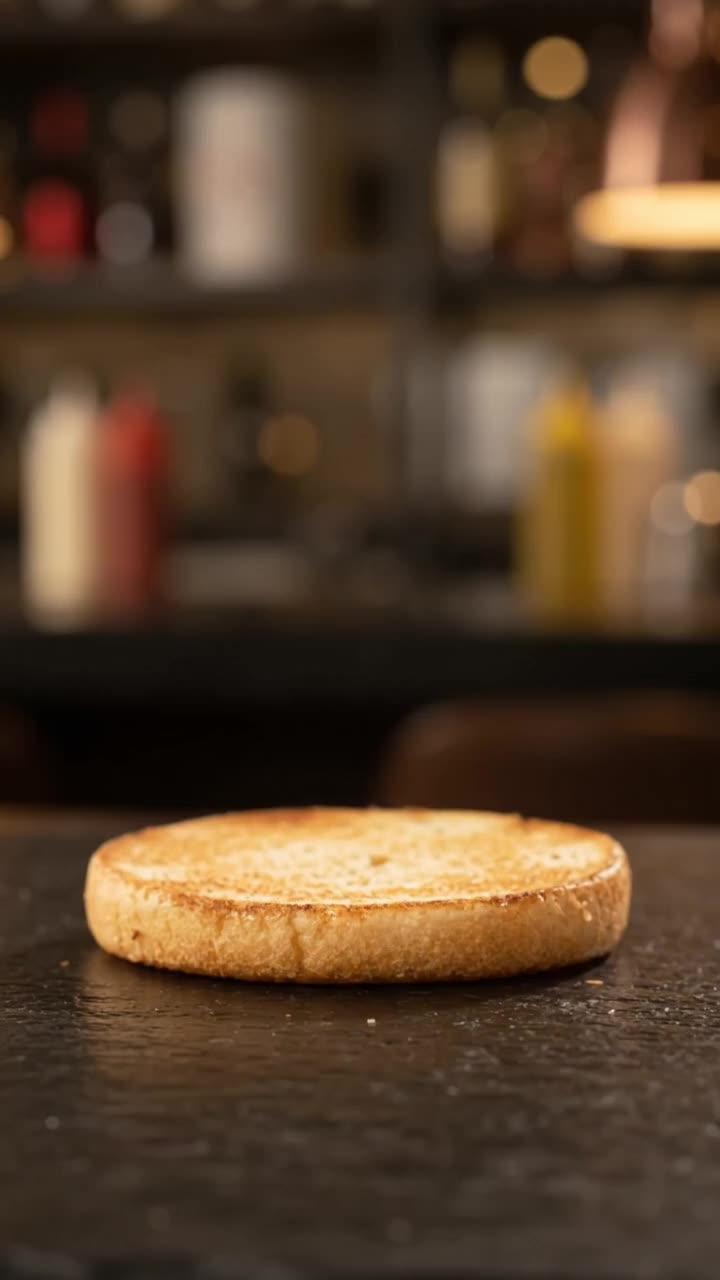
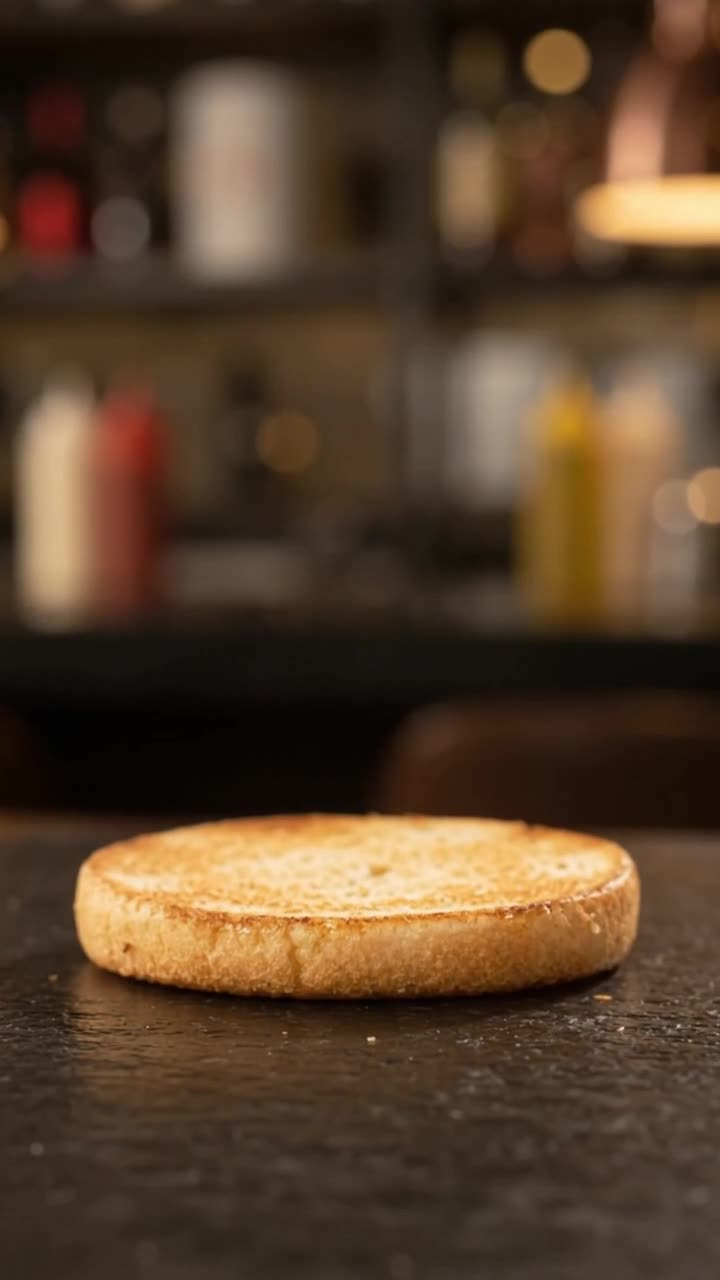
Vídeo do topo: rolagem cobre só o trecho com movimento (0,8s a 6,2s)
O fim do vídeo (lanche pronto, câmera parada) fazia a pessoa rolar sem nada acontecer.
Área de rolagem encurtada de 220vh para 190vh na mesma proporção; capa = quadro de 0,8s.

Claude-Session: https://claude.ai/code/session_01CMmBAv4iTVGja1SwxTM1Vx

diff --git a/app.js b/app.js
@@ -433,7 +433,7 @@ function pontoxScrollVideoHeroHtml() {
 
   return `<section class="pontox-scroll-hero" aria-label="Montagem do hambúrguer">
     <div class="pontox-scroll-hero-sticky">
-      <video class="pontox-scroll-video" src="assets/burger-assembly.mp4#t=0.001" poster="assets/burger-assembly-poster.jpg" muted playsinline preload="auto"></video>
+      <video class="pontox-scroll-video" src="assets/burger-assembly.mp4#t=0.8" poster="assets/burger-assembly-poster.jpg" muted playsinline preload="auto"></video>
       <div class="pontox-scroll-hero-copy">
         ${special ? `<div class="pontox-scroll-hero-product">
           <span class="pontox-scroll-hero-badge">★ Especial da casa</span>
@@ -627,6 +627,8 @@ function armScrollVideo() {
   if (video.readyState >= 2) updateScrollVideo();
 }
 
+const HERO_VIDEO_START = 0.8;
+const HERO_VIDEO_END = 6.2;
 let heroScrollTicking = false;
 function updateScrollVideo() {
   const section = document.querySelector('.pontox-scroll-hero');
@@ -635,10 +637,11 @@ function updateScrollVideo() {
   const rect = section.getBoundingClientRect();
   const total = rect.height - window.innerHeight;
   const progress = total > 0 ? Math.min(1, Math.max(0, -rect.top / total)) : 0;
-  // Encurta o trecho exibido em 1,5s (sem reencodar o arquivo): o scroll nunca chega
-  // aos últimos 1,5 segundos do vídeo de verdade.
-  const effectiveDuration = Math.max(0, video.duration - 1.5);
-  video.currentTime = progress * effectiveDuration;
+  // A rolagem percorre só o trecho com movimento (sem reencodar o arquivo): antes de 0,8s é
+  // só o pão parado e depois de 6,2s o lanche já está pronto e a câmera fica parada.
+  const start = Math.min(HERO_VIDEO_START, video.duration);
+  const end = Math.min(HERO_VIDEO_END, video.duration);
+  video.currentTime = start + progress * Math.max(0, end - start);
 }
 
 window.addEventListener('scroll', () => {

diff --git a/styles.css b/styles.css
@@ -434,7 +434,7 @@ code { background: var(--card-2); padding: 1px 5px; border-radius: 5px; font-siz
 :root[data-store="pontox"] .pontox-hero-photo { align-self: stretch; min-height: 150px; display: grid; place-items: center; }
 :root[data-store="pontox"] .pontox-hero-photo img, :root[data-store="pontox"] .pontox-hero-photo .no-photo { width: 100%; height: 180px; object-fit: contain; border-radius: 18px; background: transparent; }
 :root[data-store="pontox"] .pontox-hero-photo .no-photo { color: var(--px-gold); font-size: 48px; }
-:root[data-store="pontox"] .pontox-scroll-hero { position: relative; height: 220vh; margin: 10px 0 16px; }
+:root[data-store="pontox"] .pontox-scroll-hero { position: relative; height: 190vh; margin: 10px 0 16px; }
 :root[data-store="pontox"] .pontox-scroll-hero-sticky { position: sticky; top: 0; height: calc(100vh - 170px); height: calc(100dvh - 170px); min-height: 260px; border-radius: 24px; overflow: hidden; display: flex; align-items: flex-end; background: #111; }
 /* O vídeo (720x1280) tem uma faixa vazia acima do hambúrguer já no próprio arquivo — dá
    pra cortar isso com um leve zoom ancorado embaixo: a base do vídeo fica onde já estava
